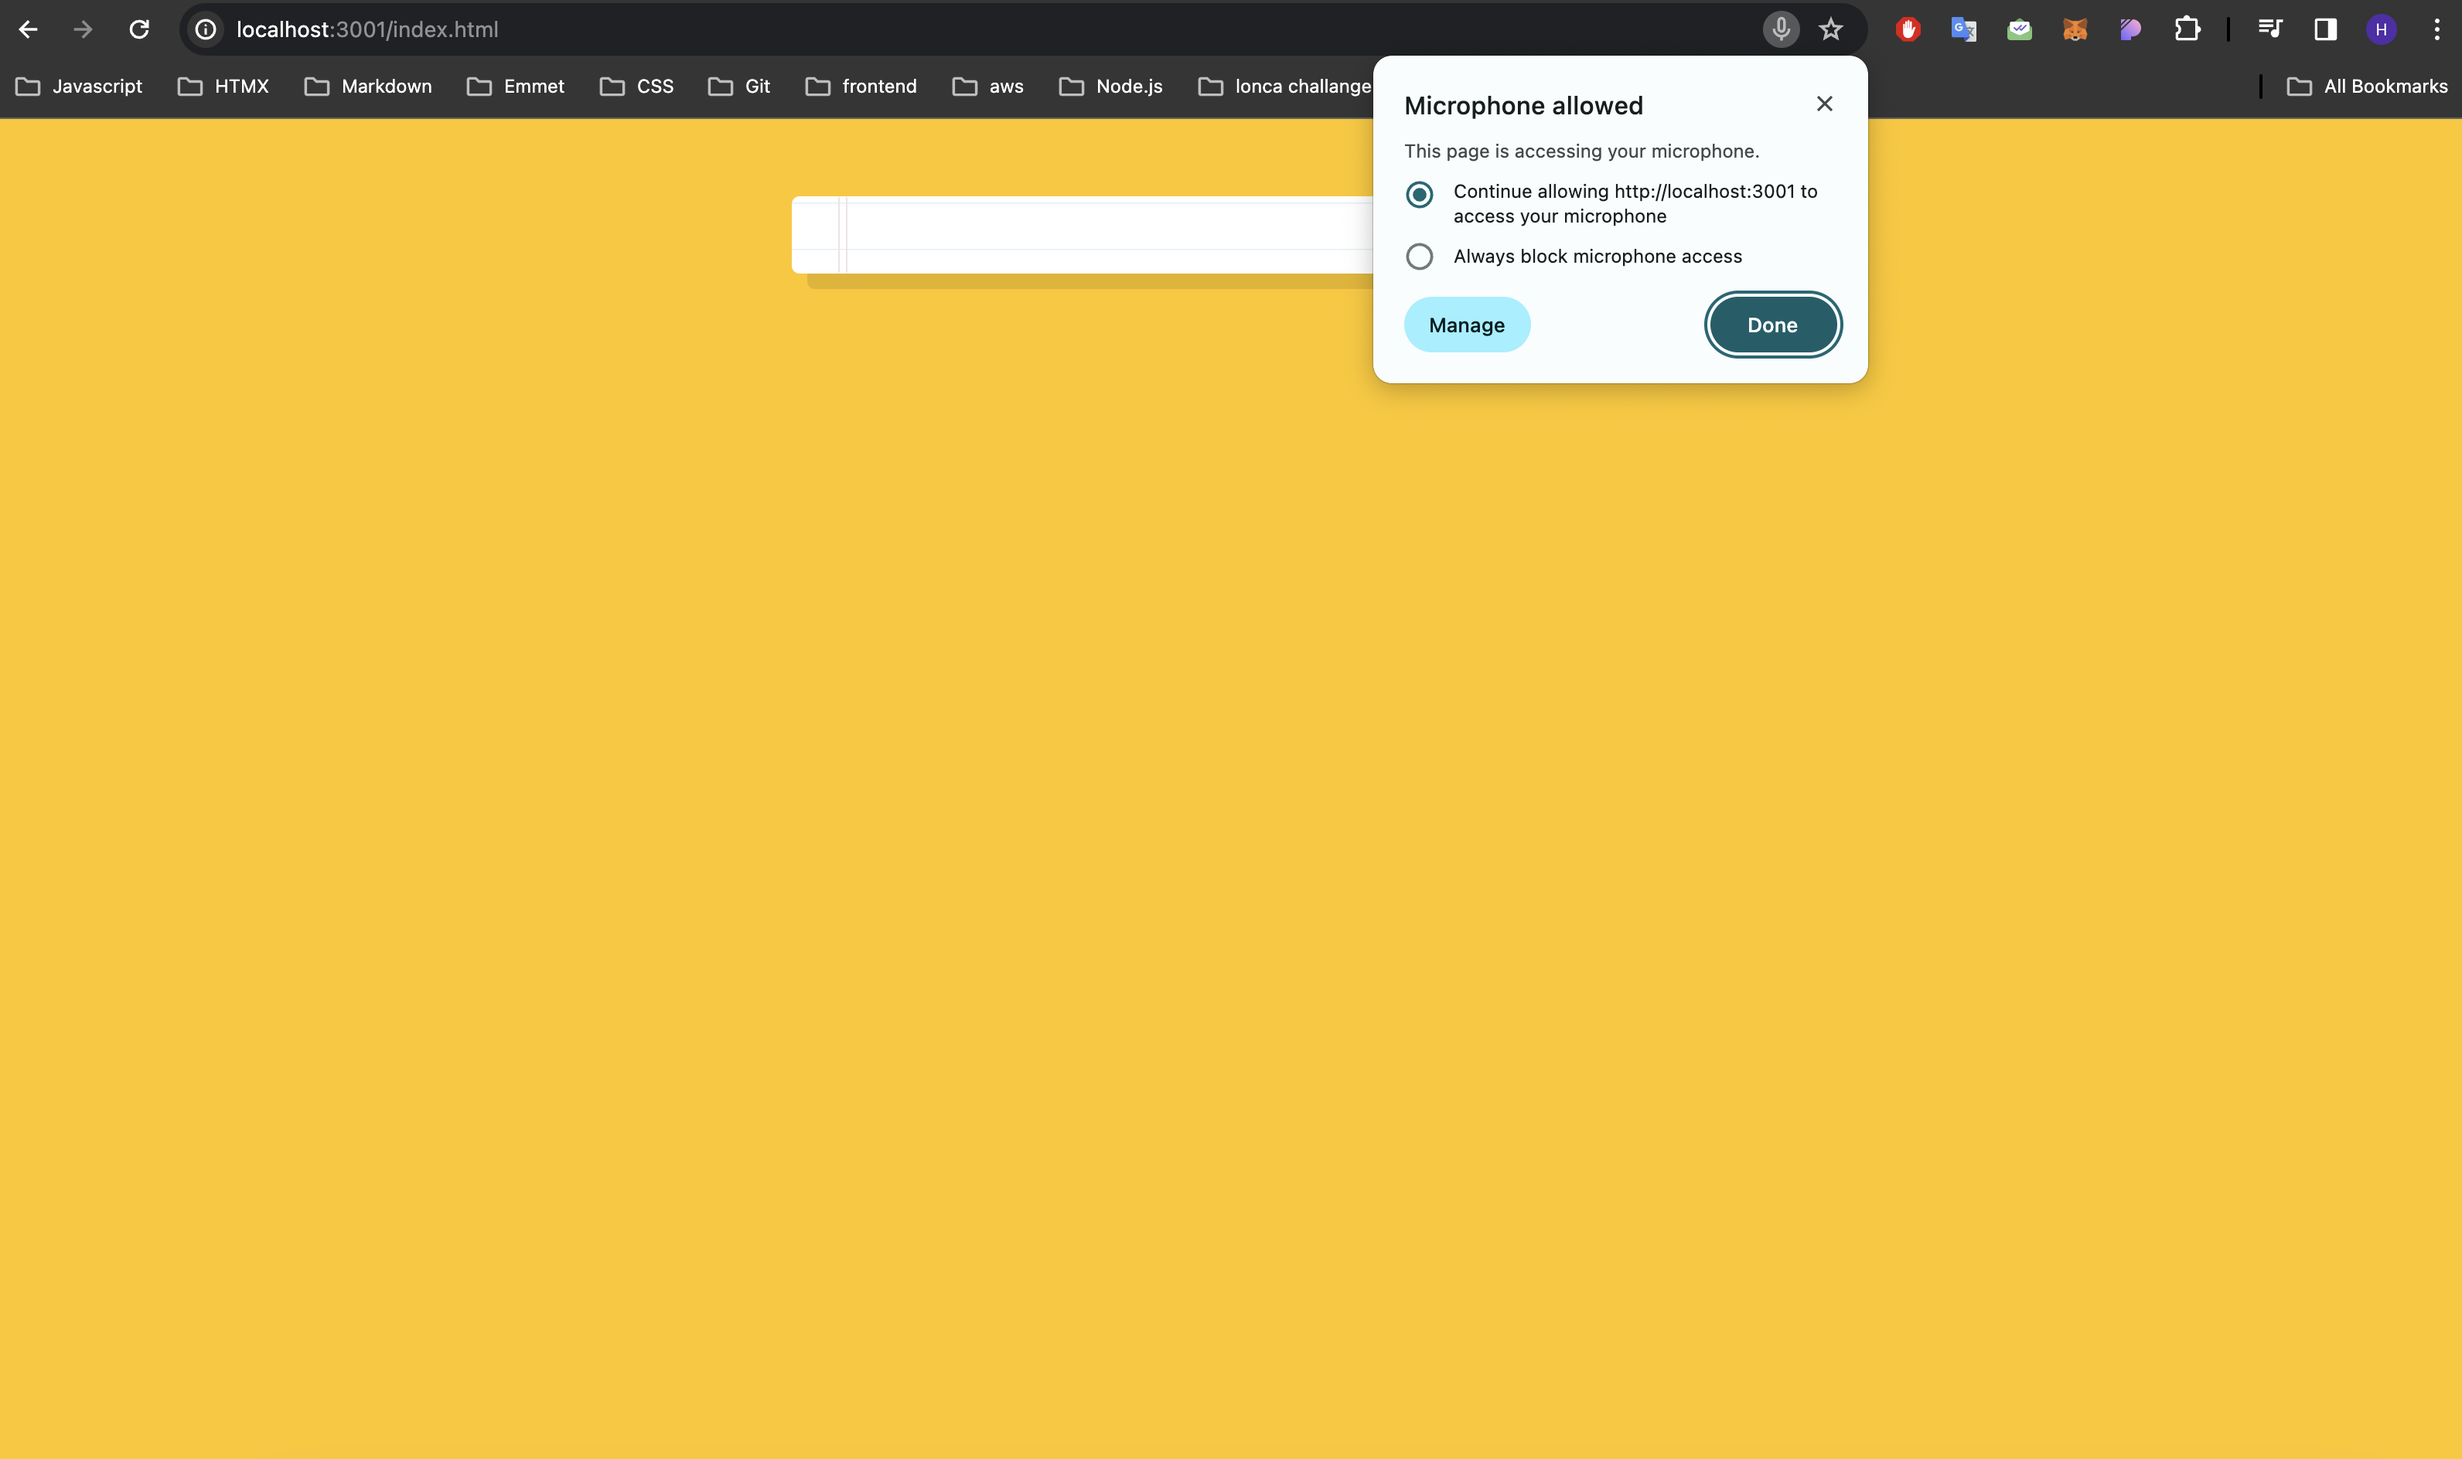
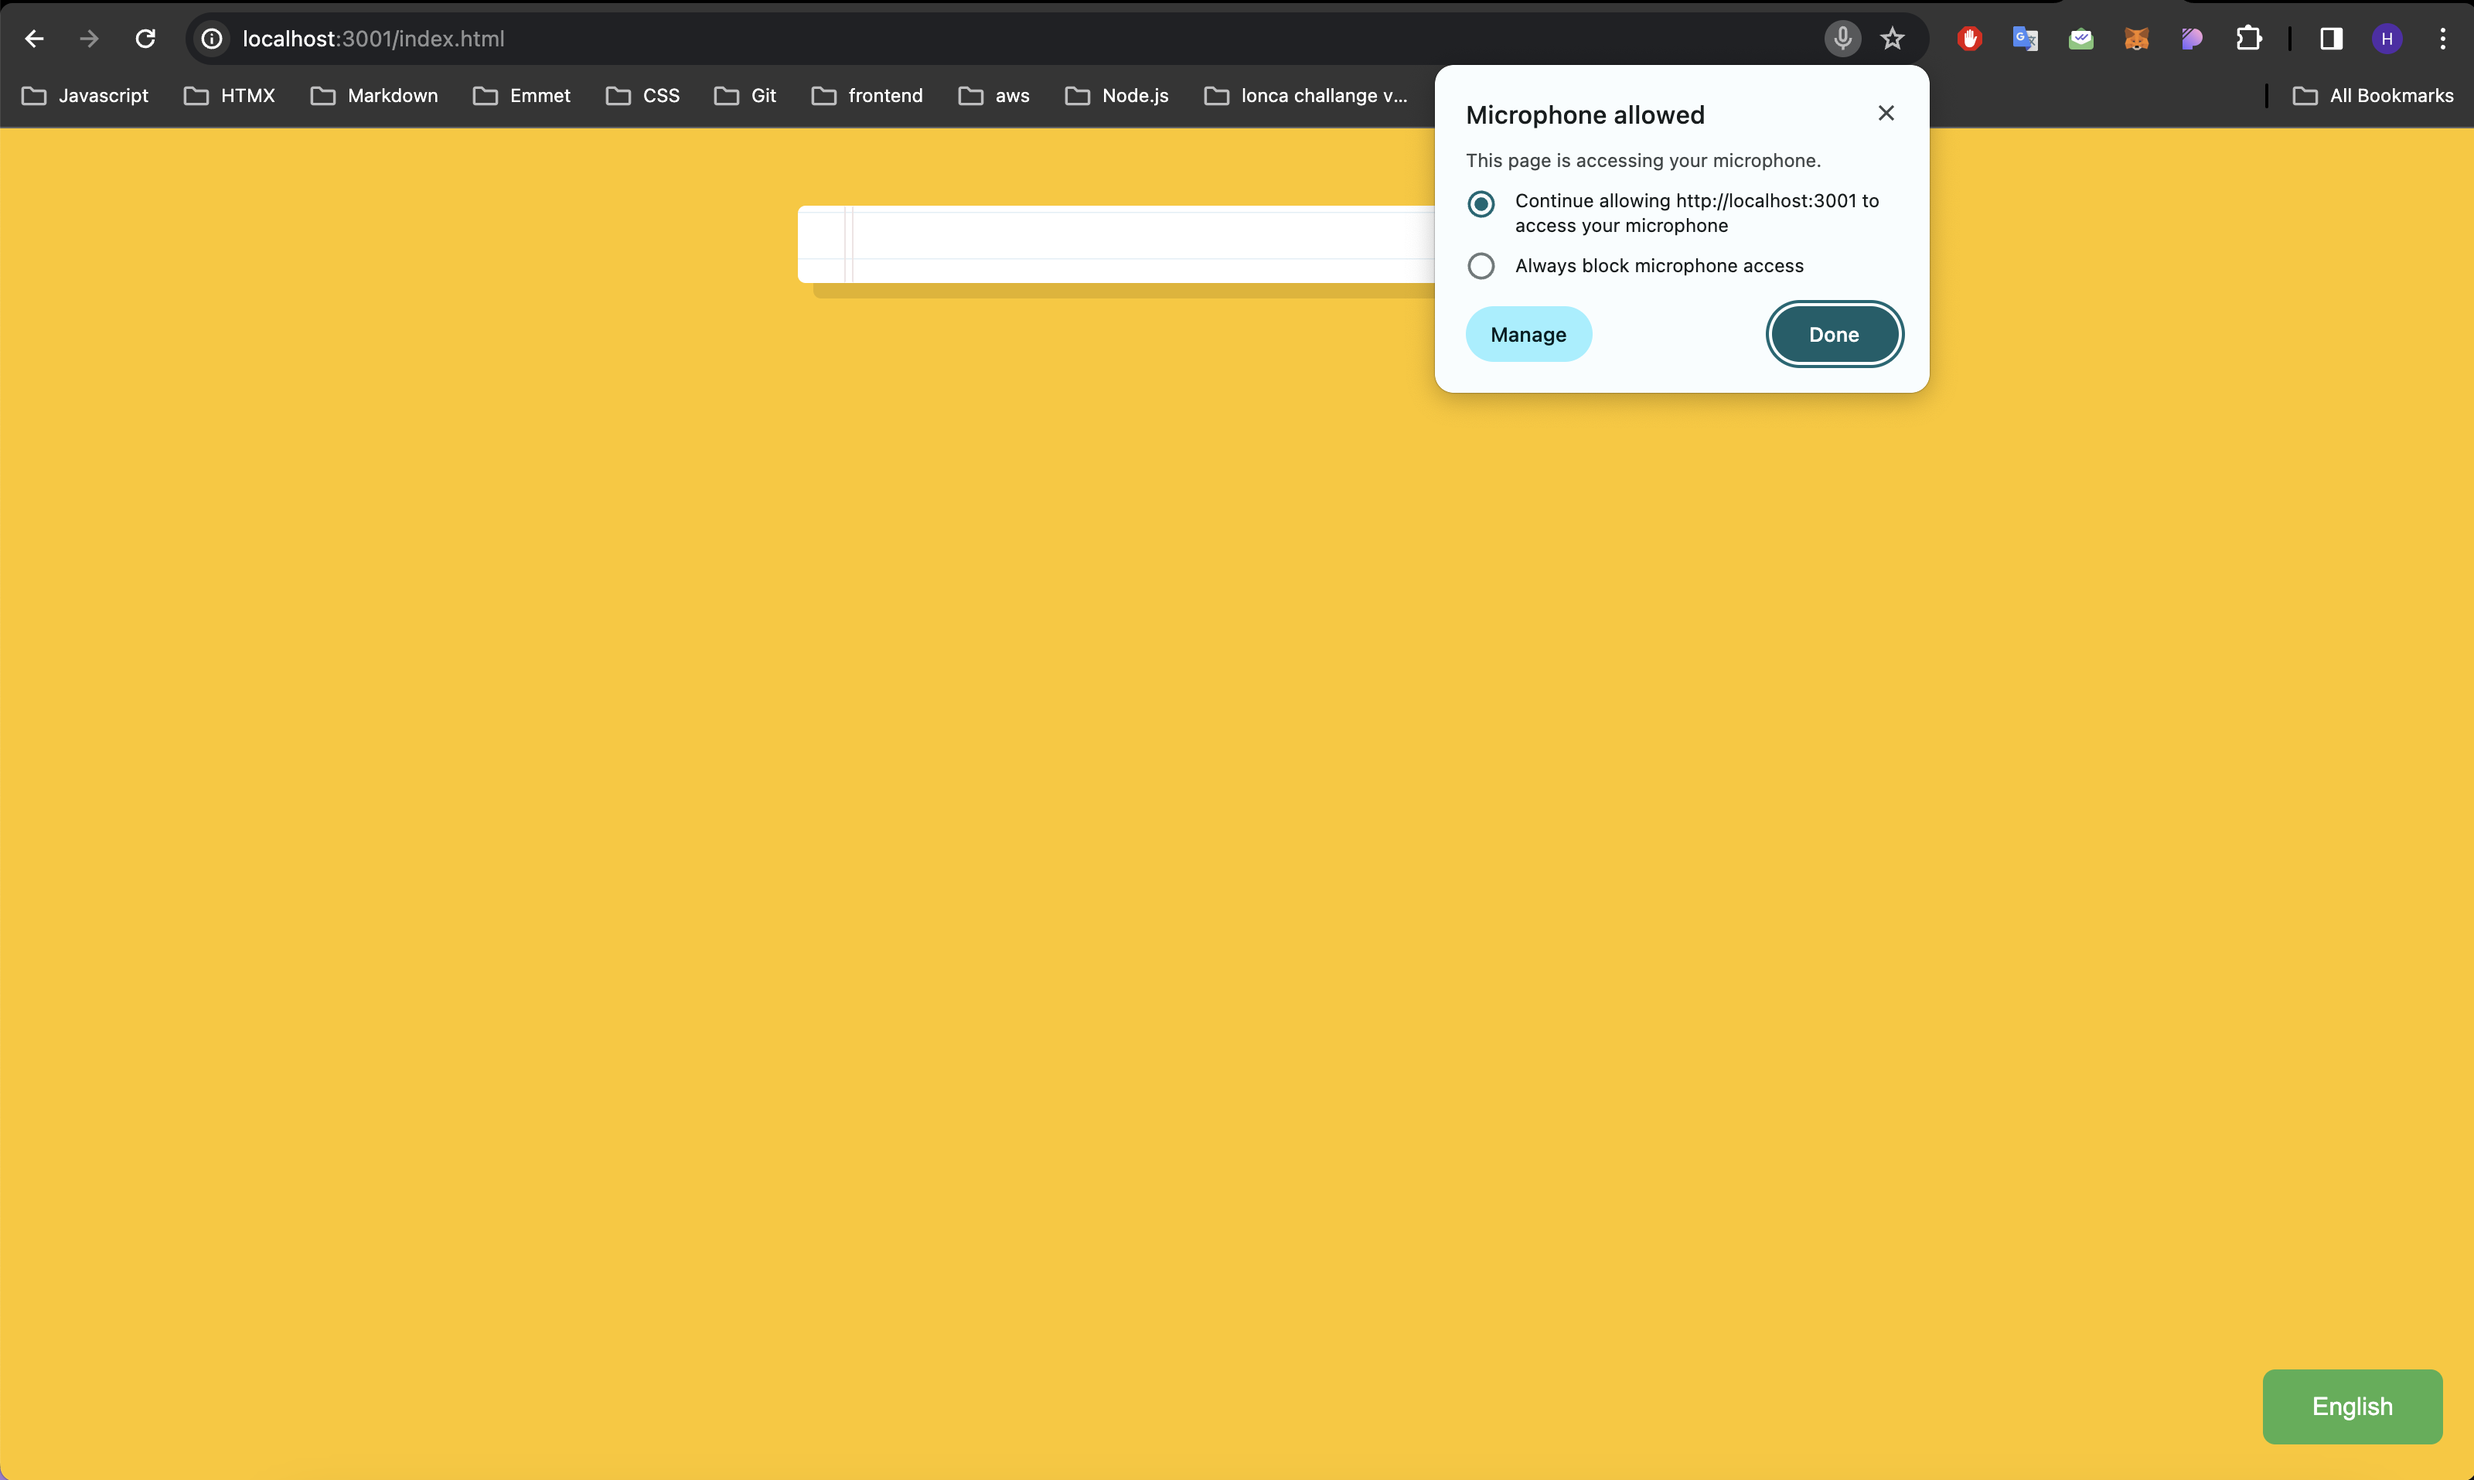
Update readme

Changed region(s): [[0.0, 0.0, 1.0, 0.2812], [0.9017, 0.9062, 0.995, 1.0]]

diff --git a/20-Speech Detection/README.md b/20-Speech Detection/README.md
@@ -16,8 +16,8 @@ https://javascript30challenge-day20.netlify.app/
 #### User asked to allow microphone:
 ![Screenshot of deployed app](img/preview1.png)
 
-#### Created p element when user take breaks:
+#### Change recignition language with toggle
 ![Screenshot of deployed app](img/preview2.png)
 
-#### User can edit the senctences:
+#### User can edit the sentences:
 ![Screenshot of deployed app](img/preview2.png)
